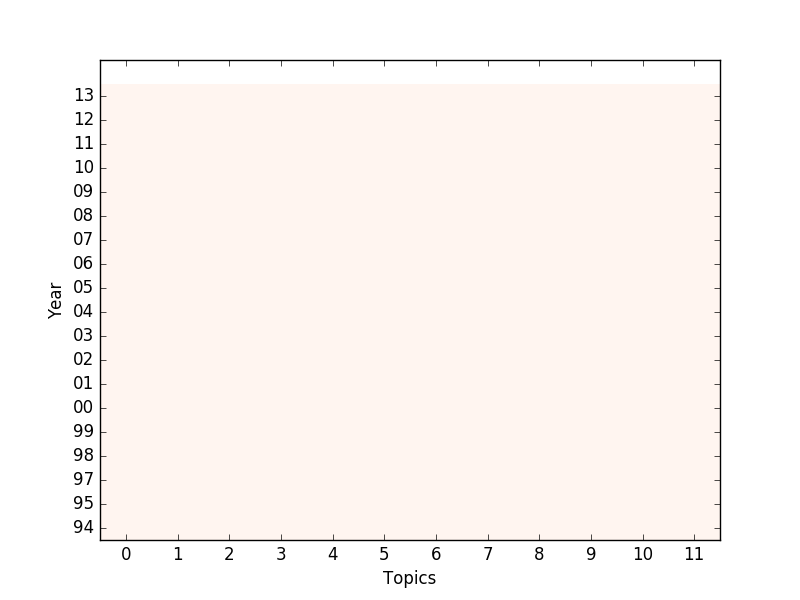
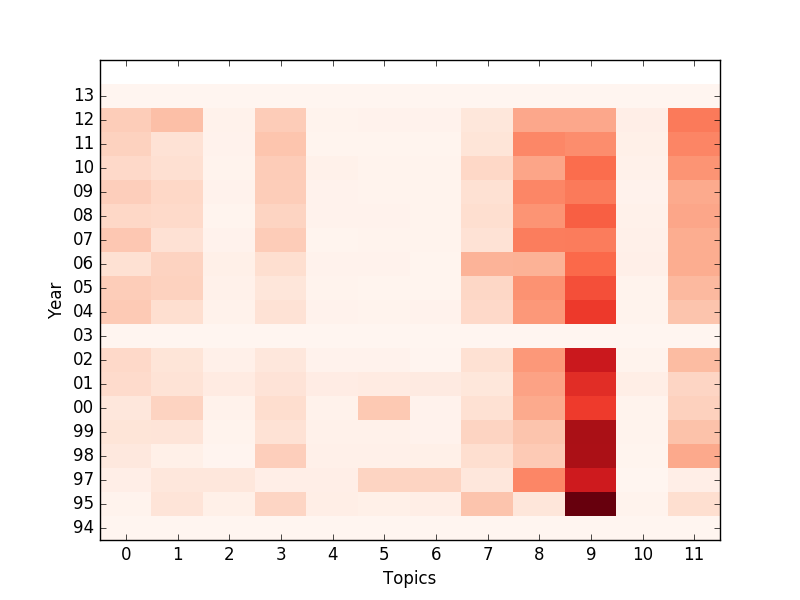
Bug for FSE and ASE heatmap

diff --git a/expts.py b/expts.py
@@ -57,6 +57,10 @@ def super_author():
   plt.ylabel("Authors Count")
   plt.savefig("figs/super_author_bar.png")
   plt.clf()
+  n_top_words = 10
+  for index, topic_dist in enumerate(lda_model.topic_word_):
+    topic_words = np.array(vocab)[np.argsort(topic_dist)][:-(n_top_words + 1):-1]
+    print('Topic {}: {}'.format(index, ', '.join(topic_words)))
 
 def yearize(paps):
   paps = sorted(paps, key=lambda tup: tup[1], reverse=True)
@@ -195,6 +199,7 @@ def conference_evolution():
       heatmap_arr.append(dist)
     fig, ax = plt.subplots()
     heatmap_arr = np.array(heatmap_arr)
+    heatmap_arr[np.isnan(heatmap_arr)] = 0
     heatmap = ax.pcolor(heatmap_arr, cmap=plt.cm.Reds)
     plt.ylabel("Year")
     plt.xlabel("Topics")
@@ -322,8 +327,8 @@ def topic_evolution():
     print('Topic {}: {}'.format(index, ', '.join(topic_words)))
 
 
-super_author()
+#super_author()
 conference_evolution()
-conference_diversity()
-pc_bias()
-topic_evolution()
+#conference_diversity()
+#pc_bias()
+#topic_evolution()
